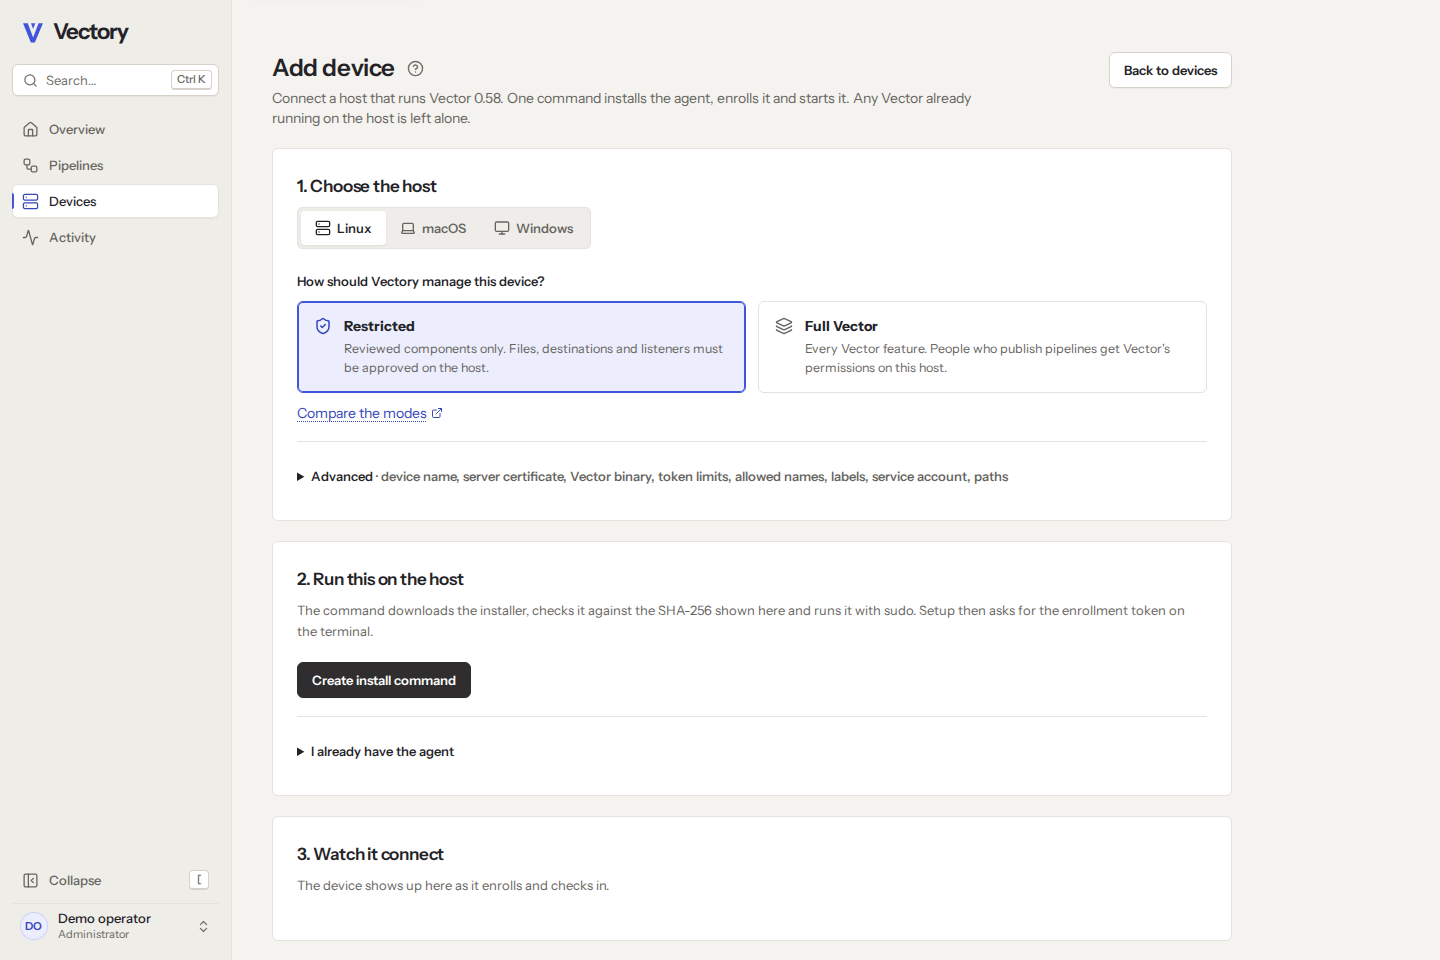
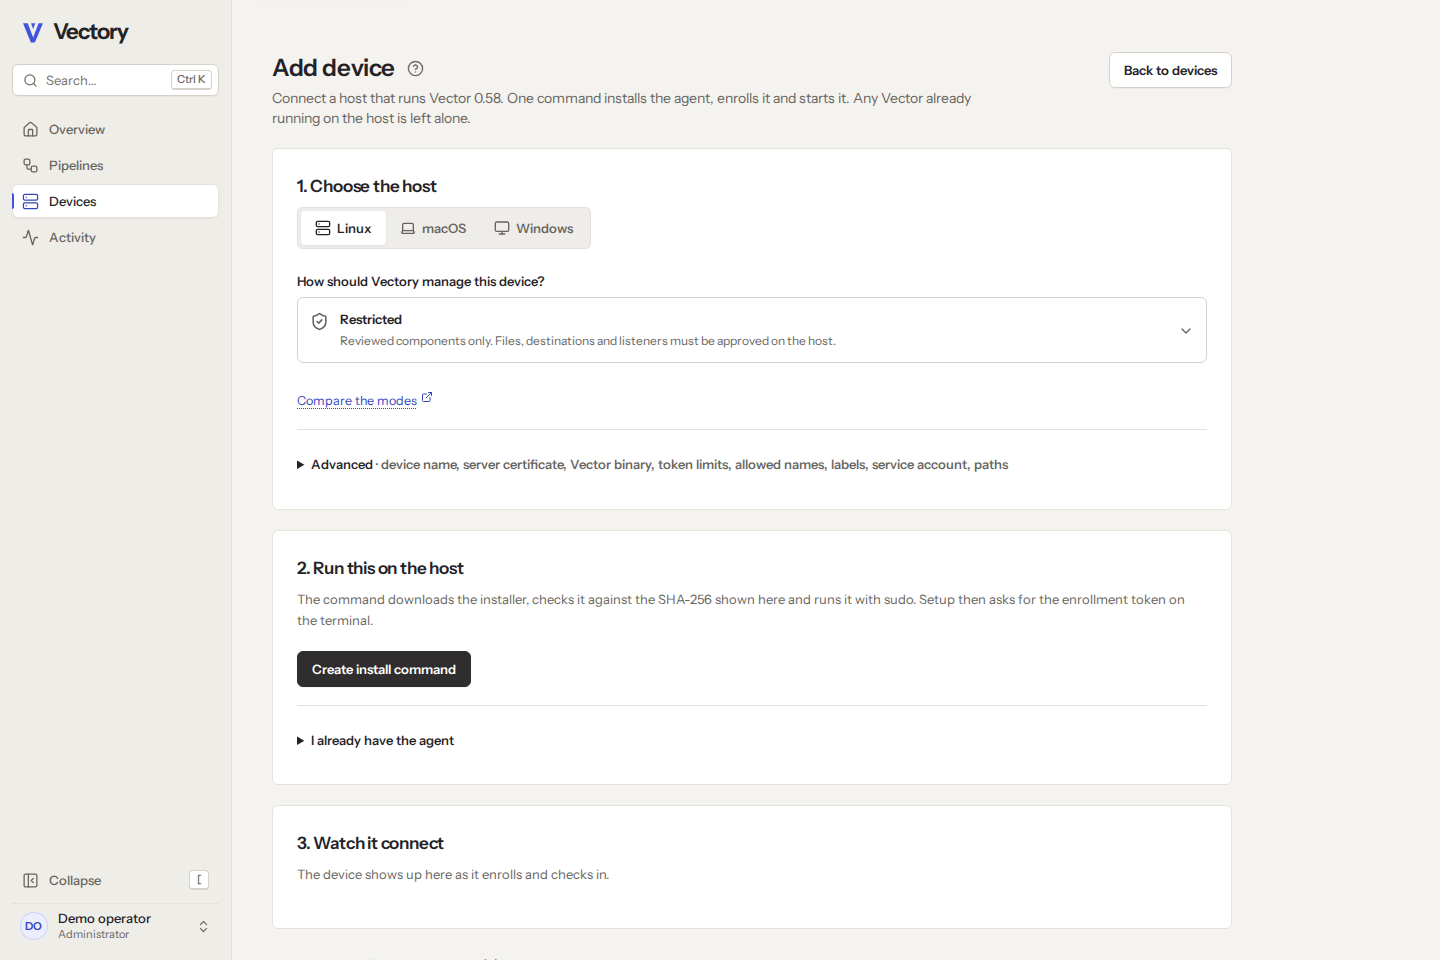
Refresh preview images and release guidance

diff --git a/docs/user/whats-new.md b/docs/user/whats-new.md
@@ -7,7 +7,7 @@ Vectory 0.1 is a developer preview. The whole loop works today against real Vect
 - **Visual pipeline editor** for all 128 component types of Vector 0.58.0, with typed settings, a code view (YAML, TOML or JSON), import and export of one or several selected files, VRL and pipeline tests, and immutable history with diffs.
 - **Checked publishing.** Publication checks the pipeline structure and uses a sandboxed Vector where safe. Configuration providers and other device-only checks run on each device before it applies the version.
 - **Controlled rollouts.** Target devices and groups with a preview, set priorities, release as a canary or on a schedule, pause, cancel and roll back.
-- **Agent updates.** Roll out a signed agent build from the dashboard to hosts that agreed to it, a canary first, and each host takes a failed build back by itself. A host is visited once, to agree.
+- **Agent updates.** Roll out a signed agent build from the dashboard to hosts that agreed to it, a canary first, and each host takes a failed build back by itself. Visit a host to opt in and pin a key.
 - **Outbound-only agents.** Mutual TLS, per-device signed configurations, protection against rollback to older versions, and automatic restore of the last working configuration.
 - **Host-owned safety.** Restricted and full modes, local allowances, and credentials that stay on the device.
 - **Operations.** Device metrics, issues, and an exportable audit log.
@@ -23,7 +23,7 @@ Vectory 0.1 is a developer preview. The whole loop works today against real Vect
 - **Check on devices before you deploy.** The deploy review can ask the devices it would reach to validate the version on their own hosts first, without applying anything. Each answers **Passes here**, **Needs a fix** (with the step and setting) or names the device secret it hasn't bound, with the command to bind it. Results are advice: Deploy never waits for them. See [Check on devices](deployments.md#check-on-devices).
 - **A live graph you can inspect.** Rates sit on labels and connections route around the steps, so nothing runs behind a card. **Fit** frames the topology; zoom in or choose **Show as table** to read details in a large pipeline. **Live** is on when a device runs the pipeline. See [Add and connect components](pipelines.md#add-and-connect-components).
 - **From a problem to its fix.** **Fix in pipeline** opens the step and setting a failure names. Issue cards lead with **Roll back**, **Fix in pipeline**, **Open rollout** or **Open device**. Deploying a pipeline that already runs starts from the devices that run it. The command palette pauses, cancels and rolls back rollouts, deploys and duplicates pipelines, and shows a device's issues, through the same reviews as the pages. See [Work with issues](telemetry.md#work-with-issues) and [Deploy a published version](deployments.md#deploy-a-published-version).
-- **Quick with thousands of devices.** Devices, group editing, the deploy dialog and the command palette read a page at a time and search on the server, and the Overview reads counts instead of a row per device. Select every device a search finds, across pages. See [Find devices](telemetry.md#find-devices).
+- **Paged fleet views.** Devices, group editing, the deploy dialog and the command palette read a page at a time and search on the server, and the Overview reads counts instead of a row per device. Select every device a search finds, across pages. This describes the interface, not a supported fleet size; [test capacity with your own fleet](administer.md#monitor-the-instance) before relying on large numbers. See [Find devices](telemetry.md#find-devices).
 - **What runs where.** The Overview's **Running now** lists each pipeline version devices run, on how many devices and in which groups, with events in and out per second and what it is doing now, such as a canary that is measuring delivery. See [Read the Overview](telemetry.md#read-the-overview).
 - **One-command device install.** On Linux and macOS, **Add device** gives you one command that downloads the agent from your server, checks its SHA-256, pins your server's certificate and starts the service. Windows uses the same `vectory setup` from PowerShell. Agents ship inside the server image, so there's no release step.
 - **Readable agent CLI.** `vectory setup`, `--help` for every command, a human-readable `status`, `doctor` checks that test the connection to your server, and `vectory logs`.
@@ -46,7 +46,7 @@ Vectory 0.1 is a developer preview. The whole loop works today against real Vect
 
 ## Known limits
 
-- Images and packages aren't published yet; the server builds from source.
+- The release supplies unsigned packages and Docker image archives as downloads, but there is no package repository or container registry. The quickstart can build the server from source.
 - Agent downloads carry SHA-256 checksums but aren't signed.
 - A host takes agent updates only after someone ran a command on it that agreed to them. Hosts that haven't, agents that predate updates and platforms a release doesn't carry are upgraded on the host, one command per device; see [Upgrade many devices](agents.md#upgrade-many-devices).
 - Agent updates have no major track: a host takes patch releases, or minor releases too, and a new major version is an upgrade by hand. Who holds the release key is fixed while updates are on.

diff --git a/packaging/README.md b/packaging/README.md
@@ -1,6 +1,6 @@
 # Release engineering
 
-This tree prepares unsigned development outputs. No release, APT repository, Homebrew tap, MSI, Apple signing identity, or public package namespace is claimed to exist. Native OS acceptance in [COMPATIBILITY](../docs/COMPATIBILITY.md) is independent of cross-compilation.
+This tree prepares unsigned development outputs. The candidate workflow publishes no release, APT repository, Homebrew tap, container registry, or public package namespace; the release checklist covers publication separately. No Apple signing identity is configured. Native OS acceptance in [COMPATIBILITY](../docs/COMPATIBILITY.md) is independent of cross-compilation.
 
 ## Build
 
@@ -65,7 +65,7 @@ The local source-input inventory records tracked and nonignored untracked file h
 
 Repeat the build from the same source/toolchain in a fresh directory and compare every binary, archive and catalog digest. Additional source SBOM metadata must be generated consistently before comparing complete checksum inventories. `-trimpath`, disabled VCS stamping, a fixed empty Go build ID, conservative `GOAMD64=v1`, CGO disabled, and normalized archive times make this comparison useful. The verifier parses Linux ELF headers and rejects PT_INTERP or DT_NEEDED; `readelf -l` and `readelf -d` provide an additional native inspection path. Offline builds require preloaded module and npm/Cargo caches and container base images. The final local candidate's two same-host builds matched all eleven binary/archive/catalog files; this is not independent-builder provenance.
 
-`release-candidate.yml` runs only when manually dispatched (see [Release candidate workflow](#release-candidate-workflow)). An earlier unsigned candidate passed at `a012c1e`; the final release head still needs a complete run and downloaded-artifact verification. `ci.yml` runs on every push; [docs/internal/CI.md](../docs/internal/CI.md) lists what each job proves and what it does not. Resolve every scanner finding; run `packaging/audit-rust.py`, `packaging/audit-npm.py`, `govulncheck ./...`, and an image scanner on the exact release inputs. The Rust gate retains full findings and admits only the specifically proven inactive optional dependency described in [DEPENDENCY-AUDIT](../docs/internal/DEPENDENCY-AUDIT.md). The npm gate retains both raw audits and admits only the advisories in `npm-audit-exceptions.json`, each until its expiry date; `python3 packaging/test_audit_npm.py` tests it against a stub `npm`. These checks require a current vulnerability database and are not performed by the agent at runtime.
+`release-candidate.yml` runs only when manually dispatched (see [Release candidate workflow](#release-candidate-workflow)). The final release head needs a complete run and downloaded-artifact verification. `ci.yml` runs on every push; [docs/internal/CI.md](../docs/internal/CI.md) lists what each job proves and what it does not. Resolve every scanner finding; run `packaging/audit-rust.py`, `packaging/audit-npm.py`, `govulncheck ./...`, and an image scanner on the exact release inputs. The Rust gate retains full findings and admits only the specifically proven inactive optional dependency described in [DEPENDENCY-AUDIT](../docs/internal/DEPENDENCY-AUDIT.md). The npm gate retains both raw audits and admits only the advisories in `npm-audit-exceptions.json`, each until its expiry date; `python3 packaging/test_audit_npm.py` tests it against a stub `npm`. These checks require a current vulnerability database and are not performed by the agent at runtime.
 
 ## Sign and package
 
@@ -79,6 +79,6 @@ On Windows install WiX (the workflow uses `dotnet tool install wix --version 5.0
 
 `build-apt-repository.sh <debs> <new-directory> <gpg-key-id>` uses dpkg-scanpackages, apt-ftparchive and a real GPG key to create signed repository metadata locally. Publication requires an approved hostname/storage endpoint and namespace review. After publication, operators independently obtain the keyring, check its fingerprint, save it under `/etc/apt/keyrings`, add `deb [signed-by=/etc/apt/keyrings/vectory.gpg] https://<approved-host> stable main`, then run `apt update` and `apt install vectory`. A bare `apt install vectory` is not promised before repository configuration.
 
-## Before public release
+## Before publication
 
-Before public release, check Vectory name/trademark and package/repository namespaces, fill the private vulnerability-reporting destination, review third-party license inventory, complete native gates and sign using real credentials. Vectory is independent of Datadog and the Vector project.
+For the unsigned 0.1 developer preview, follow the [release checklist](../docs/internal/RELEASE-0.1.md): check Vectory name/trademark and package/repository namespaces, fill the private vulnerability-reporting destination, review the third-party license inventory and complete the native gates. State plainly that its artifacts are unsigned. A future signed distribution needs real signing credentials and separate signature verification. Vectory is independent of Datadog and the Vector project.

diff --git a/README.md b/README.md
@@ -22,7 +22,7 @@ Vectory is an open-source control plane for [Vector](https://vector.dev/). Build
 | **A visual editor for real Vector** | Schema-driven settings for all 128 component types of Vector 0.58, eight starter pipelines that pass Vector 0.58.0's own validation, VRL with sample tests, and YAML, TOML or JSON import and export. Publication checks the pipeline structure and uses an isolated Vector 0.58 validator where safe; configuration providers and other device-only checks run on each device before it applies. |
 | **Rollouts you can trust** | Immutable versions with diffs, device and group targeting with a preview, canaries that advance only when devices confirm, schedules and one-step rollback. |
 | **Outbound-only agents** | The agent dials out over TLS 1.3 with mutual TLS. Nothing on your hosts listens for Vectory. |
-| **Your data stays yours** | Events flow from Vector to your destinations, never through Vectory. Credentials stay on each host as `vectory-secret:NAME` references. |
+| **Your data stays yours** | Events flow from Vector to your destinations, never through Vectory. Supported credential fields use device-local `vectory-secret:NAME` references; headers and URLs cannot use them in this preview. |
 | **Guardrails built in** | Roles, two-factor sign-in and an exportable audit log. Signed per-device configurations. A local policy on each host that the server can't widen. |
 | **Self-hosted, no strings** | Docker Compose and SQLite. No cloud account, analytics or outside CDN. Apache-2.0. |
 
@@ -69,9 +69,9 @@ The same guides ship inside every server as a searchable, offline Help center at
 
 ## Project status
 
-Vectory is a **0.1 developer preview**, and nothing in it is signed. The full loop (build, publish, canary, apply and roll back) runs against real Vector 0.58.0 agents on Linux, macOS and Windows. On every change CI runs the agent's native tests with Vector 0.58.0 on all three, a browser suite, and the Compose server stack on a clean runner. A second workflow, run on demand, installs the agent as a real operating-system service (systemd, launchd and the Windows service), runs the loop through it, restarts, kills and stops it, updates it to a newer build through a rollout and shows it taking back a build that fails; it also runs the first-use flows in Firefox and WebKit.
+Vectory is a **0.1 developer preview**. Its downloadable release artifacts are unsigned; device configurations and opt-in agent-update builds have their own runtime signatures. The full loop (build, publish, canary, apply and roll back) runs against real Vector 0.58.0 agents on Linux, macOS and Windows. On every change CI runs the agent's native tests with Vector 0.58.0 on all three, a browser suite, and the Compose server stack on a clean runner. A second workflow, run on demand, installs the agent as a real operating-system service (systemd, launchd and the Windows service), runs the loop through it, restarts, kills and stops it, updates it to a newer build through a rollout and shows it taking back a build that fails; it also runs the first-use flows in Firefox and WebKit.
 
-Not done yet: published images and packages, signed releases, reboot and upgrade tests, service tests on distributions other than Ubuntu 24.04, and tests on Arm64 hardware. Agent updates are built in and off until an administrator turns them on: a host agrees to them once, in the command that installs or upgrades it, and after that the dashboard rolls out signed builds with a canary first and an automatic rollback on each host. Any other agent is upgraded on its host, one command per device. See [Compatibility](docs/user/compatibility.md) for minimums and what is tested where, the [roadmap](docs/ROADMAP.md) for what's next, and the [requirements checklist](docs/internal/REQUIREMENTS.md) for the test behind each requirement.
+The release supplies unsigned packages and Docker image archives as downloads, but there is no package repository or container registry yet. Also not done: signed release artifacts, reboot and upgrade tests, service tests on distributions other than Ubuntu 24.04, and tests on Arm64 hardware. Agent updates are built in and off until an administrator turns them on: a host agrees to them once, in the command that installs or upgrades it, and after that the dashboard rolls out signed builds with a canary first and an automatic rollback on each host. Any other agent is upgraded on its host, one command per device. See [Compatibility](docs/user/compatibility.md) for minimums and what is tested where, the [roadmap](docs/ROADMAP.md) for what's next, and the [requirements checklist](docs/internal/REQUIREMENTS.md) for the test behind each requirement.
 
 ## Develop
 

diff --git a/docs/internal/DEPENDENCY-AUDIT.md b/docs/internal/DEPENDENCY-AUDIT.md
@@ -34,7 +34,7 @@ python3 packaging/test_audit_npm.py
 
 The help center has one exception. A run on 2026-10-03 found five high findings in `help-center/`, all from one advisory. `astro` 7.3.5 and `@astrojs/starlight` 0.42.4 are `dependencies`, and `astro` depends on `http-cache-semantics` 4.2.0, which carries [GHSA-ch52-4w7c-c8xp](https://github.com/advisories/GHSA-ch52-4w7c-c8xp) (high: max-stale handling can disclose cross-user cached responses). The advisory affects every release of the package. On that date 4.2.0 and `astro` 7.3.5 were the latest, so there was nothing to update to. Astro uses the package only to decide how long it may keep a downloaded remote image (`astro/dist/assets/build/remote.js`), and the help center uses no remote image.
 
-Nothing that ships contains it. `help-center/scripts/build.mjs` writes static files and copies them to `dashboard/dist/help`. In `deploy/Dockerfile`, the `dashboard` stage installs the help center's packages (line 7), and the `runtime` stage (line 44, `debian:bookworm-slim` with no Node) copies only `dashboard/dist` from it (line 52). After a build, `grep -rIl http-cache-semantics dashboard/dist` prints nothing. The exception expires on 2026-12-31.
+Nothing that ships contains it. `help-center/scripts/build.mjs` writes static files and copies them to `dashboard/dist/help`. In `deploy/Dockerfile`, the `dashboard` stage installs the help center's packages, and the Debian 13 `runtime` stage has no Node and copies only `dashboard/dist` from it. After a build, `grep -rIl http-cache-semantics dashboard/dist` prints nothing. The exception expires on 2026-12-31.
 
 `astro` and `@astrojs/starlight` stay in `dependencies`. Their client scripts are bundled into the shipped pages, and the SBOM of what ships should list them. To review the exception, look for a patched `http-cache-semantics` or an `astro` that no longer needs it (`npm view http-cache-semantics version`, `npm view astro dependencies.http-cache-semantics`). Then update the lockfile and delete the entry, or renew it with a new date and a reason checked against the Dockerfile again.
 
